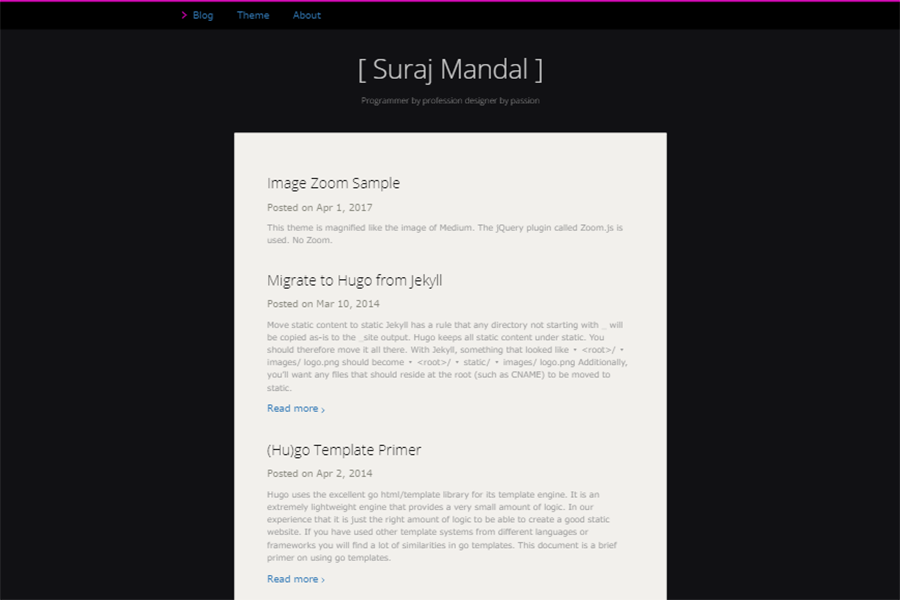
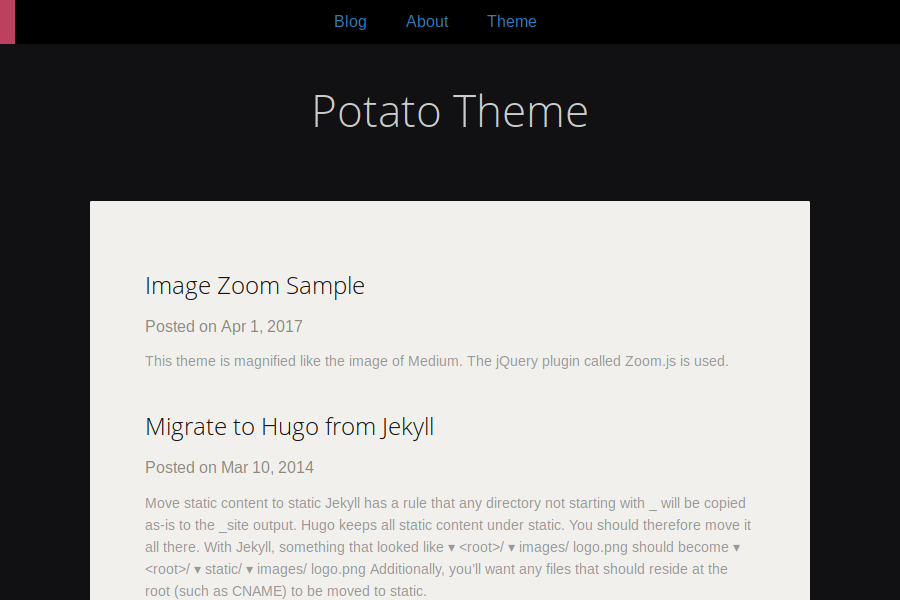
update theme

diff --git a/static/css/style.css b/static/css/style.css
@@ -445,7 +445,7 @@ img {
 }
 
 
-/* Menu styles*/
+/* Menu styles - change */
 
 .p-menu {
     width: 100%;
@@ -454,9 +454,10 @@ img {
     padding-bottom: 14px;
     margin-bottom: 4rem;
     display: inline-block;
-    border-left: 2px solid #ED5276cc;
+    border-left: 1rem solid #ED5276cc;
 }
 
+/* change */
 .p-menu:hover{
     /*border-left: 4px solid #ED5276cc;*/
     opacity: 0.65
@@ -467,6 +468,10 @@ img {
     padding: 0;
     max-width: 865px;
     display: inline-block;
+    /* Change */
+    max-width: 720px;
+    margin: 0 auto;
+    text-align: left;
 }
 
 @media(min-width:640px) {
